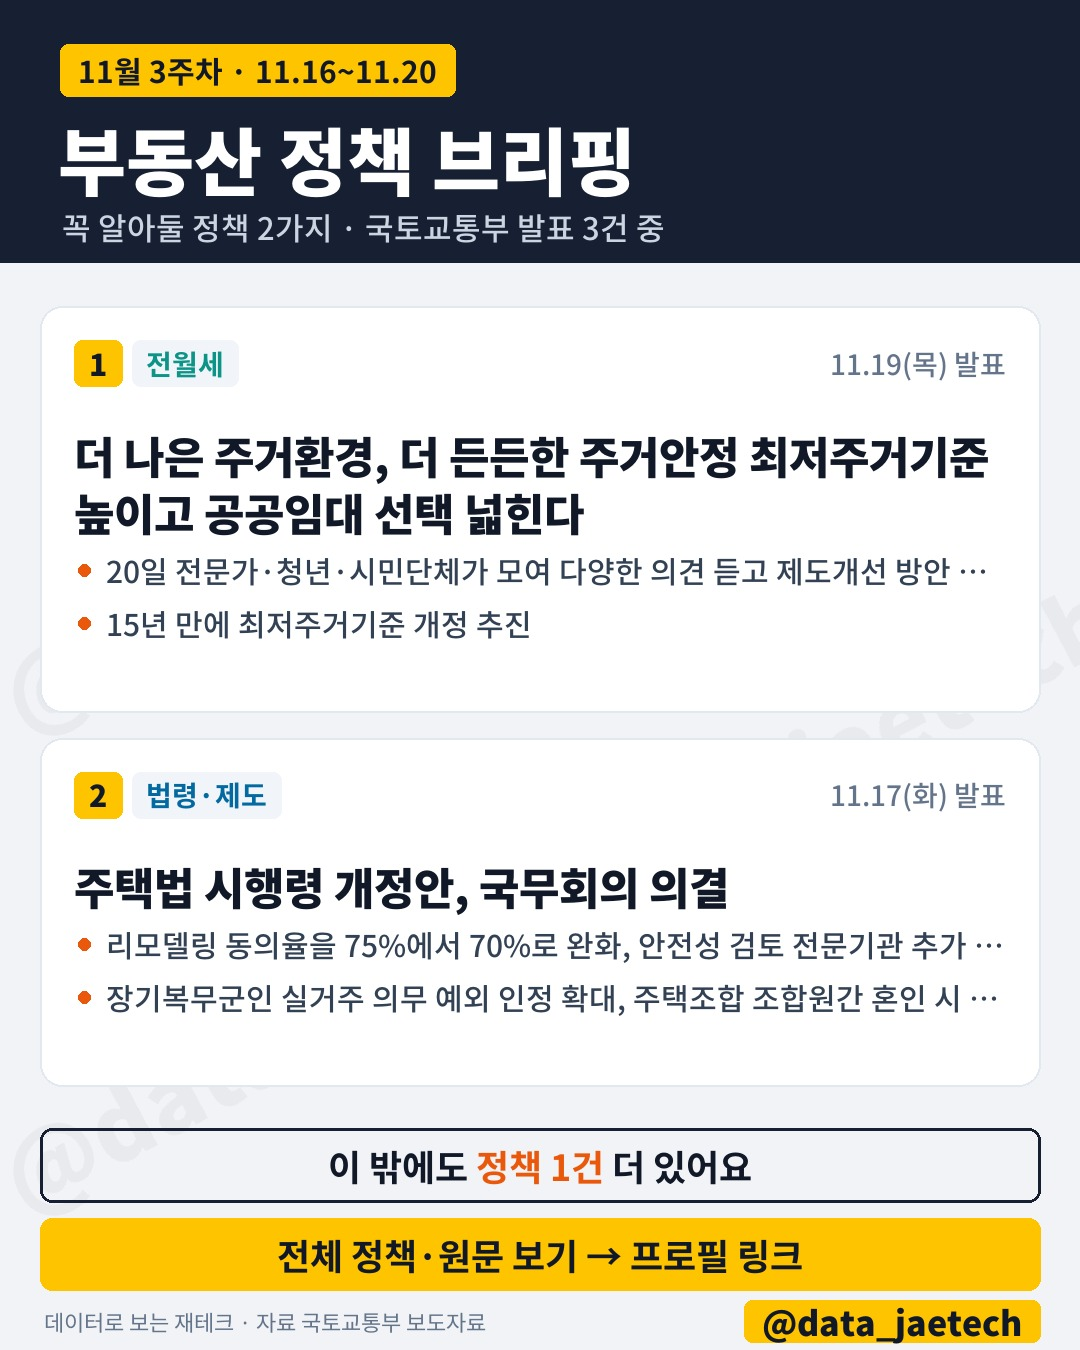
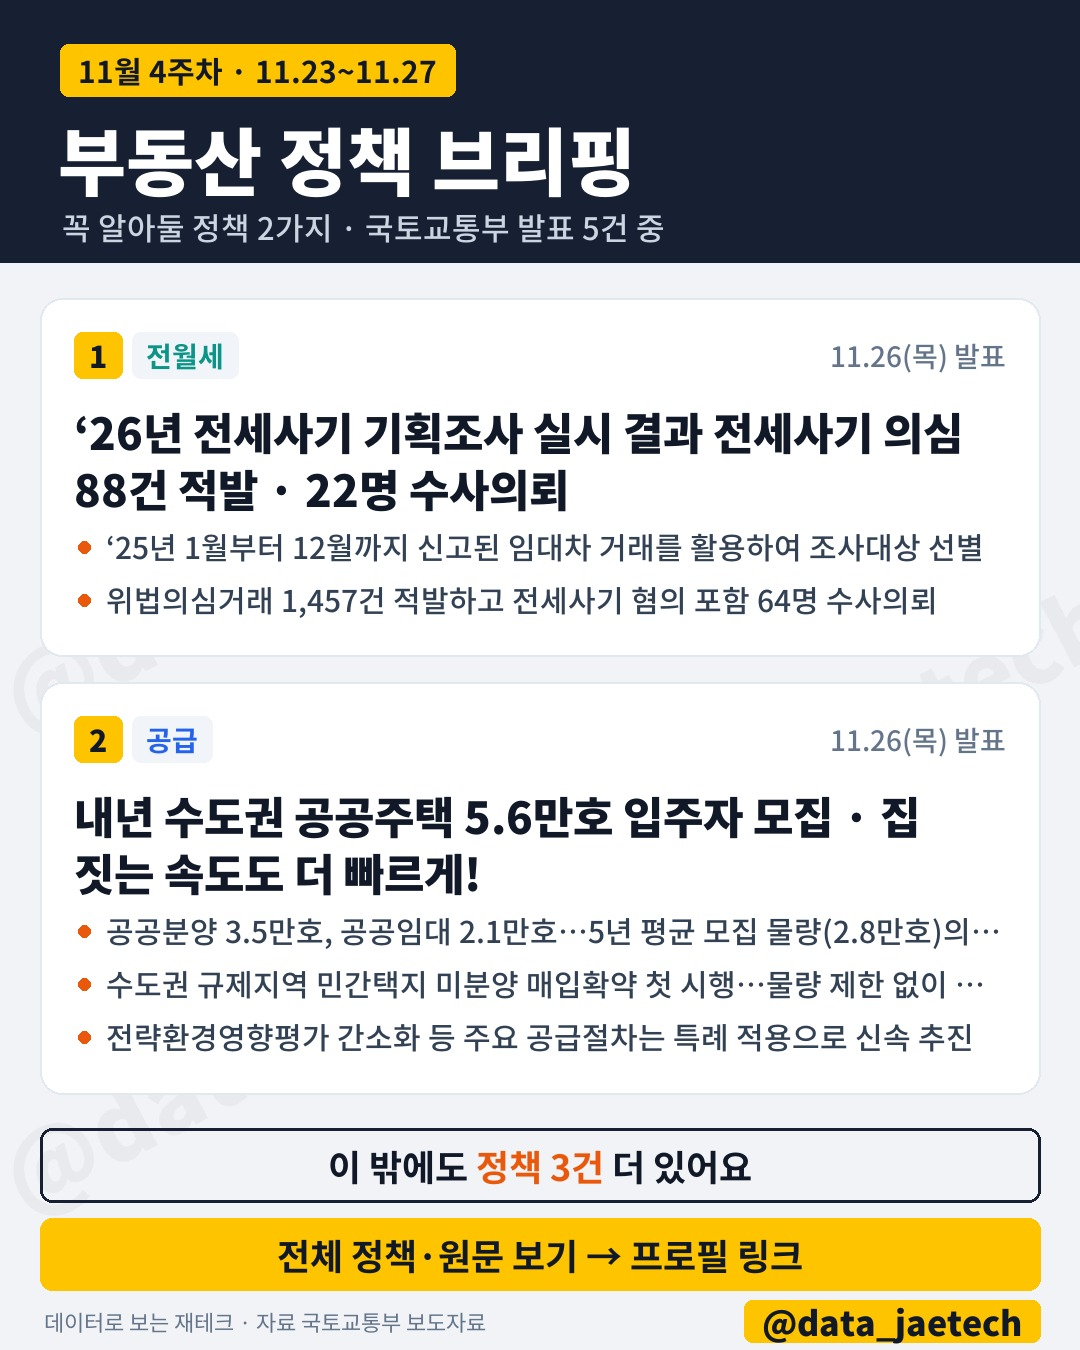
부동산 정책 게시 2026-11-27

diff --git a/policy_now/insta/index.html b/policy_now/insta/index.html
@@ -21,7 +21,7 @@ button{width:100%;margin-top:8px;padding:14px;border:0;border-radius:12px;backgr
 h2{font-size:15px;color:var(--ink2);margin:28px 0 4px}.none{text-align:center;color:var(--ink2);padding:40px 0}
 footer{text-align:center;color:var(--ink2);font-size:12px;padding:16px}footer a{color:inherit}
 </style></head><body>
-<header><small>데이터로 보는 재테크 · 인스타 게시용</small><h1>11월 20일(금) 올릴 게시물</h1></header>
+<header><small>데이터로 보는 재테크 · 인스타 게시용</small><h1>11월 27일(금) 올릴 게시물</h1></header>
 <main>
 <div class="todo">오늘 할 일: 이번 주 부동산 정책<br>
 <span style="color:var(--ink2);font-size:13px">① 이미지 저장 → ② 캡션 복사 → ③ 인스타에서 새 게시물</span></div>
@@ -29,20 +29,21 @@ footer{text-align:center;color:var(--ink2);font-size:12px;padding:16px}footer a{
 <section class="card">
   <div class="hd"><b>이번 주 부동산 정책</b><em>금</em></div>
   <p class="guide">사진 1장 선택 → 캡션 붙여넣기</p>
-  <div class="ims"><a class="im" href="../policy/card.png?v=44711979142" download="policy_1120_01.png"><img src="../policy/card.png?v=44711979142" loading="lazy" alt=""><span>1</span></a></div>
+  <div class="ims"><a class="im" href="../policy/card.png?v=45976161892" download="policy_1127_01.png"><img src="../policy/card.png?v=45976161892" loading="lazy" alt=""><span>1</span></a></div>
   <p class="tip">이미지를 길게 눌러 '사진에 저장' (PC는 클릭하면 저장)</p>
   
-  <textarea id="c0" readonly>📢 이번 주 꼭 알아둘 부동산 정책 | 11월 3주차 (11.16~11.20)
+  <textarea id="c0" readonly>📢 이번 주 꼭 알아둘 부동산 정책 | 11월 4주차 (11.23~11.27)
 
-1. [전월세] 더 나은 주거환경, 더 든든한 주거안정 최저주거기준 높이고 공공임대 선택 넓힌다
-   · 20일 전문가·청년·시민단체가 모여 다양한 의견 듣고 제도개선 방안 논의
-   · 15년 만에 최저주거기준 개정 추진
+1. [전월세] ‘26년 전세사기 기획조사 실시 결과 전세사기 의심 88건 적발 · 22명 수사의뢰
+   · ‘25년 1월부터 12월까지 신고된 임대차 거래를 활용하여 조사대상 선별
+   · 위법의심거래 1,457건 적발하고 전세사기 혐의 포함 64명 수사의뢰
 
-2. [법령·제도] 주택법 시행령 개정안, 국무회의 의결
-   · 리모델링 동의율을 75%에서 70%로 완화, 안전성 검토 전문기관 추가 지정
-   · 장기복무군인 실거주 의무 예외 인정 확대, 주택조합 조합원간 혼인 시 자격특례
+2. [공급] 내년 수도권 공공주택 5.6만호 입주자 모집 · 집 짓는 속도도 더 빠르게!
+   · 공공분양 3.5만호, 공공임대 2.1만호…5년 평균 모집 물량(2.8만호)의 2배
+   · 수도권 규제지역 민간택지 미분양 매입확약 첫 시행…물량 제한 없이 지원
+   · 전략환경영향평가 간소화 등 주요 공급절차는 특례 적용으로 신속 추진
 
-이 밖에도 이번 주 정책 1건 더 발표됐어요
+이 밖에도 이번 주 정책 3건 더 발표됐어요
 자료: 국토교통부 보도자료
 
 원문·전체 정책은 프로필 링크(블로그)에서 👆
